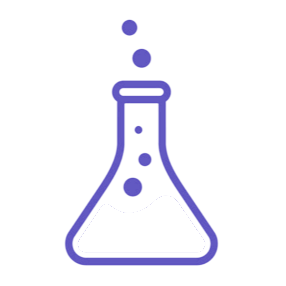
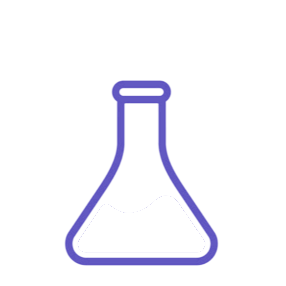
Smooth the beaker sway and animate its bubbles rising and popping
The sway used 4 ease-in-out keyframes, which decelerates at every
keyframe including the center crossings where a pendulum should be
fastest, producing a staggered swing. Replaced with a 21-point
sine-sampled curve run with linear timing. Also extracted the 5
bubble dots baked into the static artwork, erased them from
beaker-glass.png, and animate 5 staggered instances rising through
those same spots and popping at the top.

diff --git a/app/globals.css b/app/globals.css
@@ -195,15 +195,38 @@
   animation: dot-bounce 1.2s infinite ease-in-out both;
 }
 
+/* A pendulum's true speed profile is fastest through center and slowest at the extremes. That
+   curve is baked into the keyframe spacing itself (21 points sampled off a sine wave), so the
+   animation runs with `linear` timing — layering ease-in-out on top would re-slow it at every
+   keyframe, including the center crossings where it should be fastest, producing a staggered,
+   stepped swing instead of one continuous motion. */
 @keyframes beaker-tilt {
-  0%, 50%, 100% { transform: rotate(0deg); }
+  0% { transform: rotate(0deg); }
+  5% { transform: rotate(-4.02deg); }
+  10% { transform: rotate(-7.64deg); }
+  15% { transform: rotate(-10.52deg); }
+  20% { transform: rotate(-12.36deg); }
   25% { transform: rotate(-13deg); }
+  30% { transform: rotate(-12.36deg); }
+  35% { transform: rotate(-10.52deg); }
+  40% { transform: rotate(-7.64deg); }
+  45% { transform: rotate(-4.02deg); }
+  50% { transform: rotate(0deg); }
+  55% { transform: rotate(4.02deg); }
+  60% { transform: rotate(7.64deg); }
+  65% { transform: rotate(10.52deg); }
+  70% { transform: rotate(12.36deg); }
   75% { transform: rotate(13deg); }
+  80% { transform: rotate(12.36deg); }
+  85% { transform: rotate(10.52deg); }
+  90% { transform: rotate(7.64deg); }
+  95% { transform: rotate(4.02deg); }
+  100% { transform: rotate(0deg); }
 }
 
 .beaker-tilt-group {
   transform-origin: 50% 92%;
-  animation: beaker-tilt 1.7s ease-in-out infinite;
+  animation: beaker-tilt 1.7s linear infinite;
 }
 
 /* Same rotation values as beaker-tilt, at the same transform-origin, so the liquid tilts as one
@@ -211,16 +234,63 @@
    movement is scaleY dipping below 1, which only ever shrinks the liquid toward this same bottom
    anchor (never grows past its resting size), so it can't extend past the artwork's own bounds. */
 @keyframes beaker-liquid-pulse {
-  0%, 100% { transform: rotate(0deg) scaleY(1); }
+  0% { transform: rotate(0deg) scaleY(1); }
+  5% { transform: rotate(-4.02deg) scaleY(0.9753); }
+  10% { transform: rotate(-7.64deg) scaleY(0.953); }
+  15% { transform: rotate(-10.52deg) scaleY(0.9353); }
+  20% { transform: rotate(-12.36deg) scaleY(0.9239); }
   25% { transform: rotate(-13deg) scaleY(0.92); }
+  30% { transform: rotate(-12.36deg) scaleY(0.9239); }
+  35% { transform: rotate(-10.52deg) scaleY(0.9353); }
+  40% { transform: rotate(-7.64deg) scaleY(0.953); }
+  45% { transform: rotate(-4.02deg) scaleY(0.9753); }
   50% { transform: rotate(0deg) scaleY(1); }
+  55% { transform: rotate(4.02deg) scaleY(0.9753); }
+  60% { transform: rotate(7.64deg) scaleY(0.953); }
+  65% { transform: rotate(10.52deg) scaleY(0.9353); }
+  70% { transform: rotate(12.36deg) scaleY(0.9239); }
   75% { transform: rotate(13deg) scaleY(0.92); }
+  80% { transform: rotate(12.36deg) scaleY(0.9239); }
+  85% { transform: rotate(10.52deg) scaleY(0.9353); }
+  90% { transform: rotate(7.64deg) scaleY(0.953); }
+  95% { transform: rotate(4.02deg) scaleY(0.9753); }
   100% { transform: rotate(0deg) scaleY(1); }
 }
 
 .beaker-liquid-pulse {
   transform-origin: 50% 92%;
-  animation: beaker-liquid-pulse 1.7s ease-in-out infinite;
+  animation: beaker-liquid-pulse 1.7s linear infinite;
+}
+
+/* Chain of 5 bubbles rising through the flask, retracing the exact spots the static artwork used
+   to draw its bubble dots (now erased from beaker-glass.png so they can move). Every stop's
+   left/top/width/height matches one of those original dots, so the animated bubbles sit exactly
+   where the hand-drawn ones used to. Five instances of the same keyframe, staggered a fifth of
+   the cycle apart, keep all five spots occupied at once — a continuous conveyor rather than one
+   bubble hopping between positions. The top stop fades out at zero size (pops) while, thanks to
+   the stagger, another instance is simultaneously fading in from nothing at the bottom stop. */
+@keyframes beaker-bubble-rise {
+  0% { left: 46.33%; top: 65.21%; width: 0%; height: 0%; opacity: 0; }
+  6% { left: 46.33%; top: 65.21%; width: 6.64%; height: 6.64%; opacity: 0.85; }
+  22% { left: 50.52%; top: 55.77%; width: 4.55%; height: 4.55%; opacity: 0.85; }
+  40% { left: 48.25%; top: 45.28%; width: 2.62%; height: 2.62%; opacity: 0.85; }
+  60% { left: 49.48%; top: 20.1%; width: 6.64%; height: 6.64%; opacity: 0.85; }
+  80% { left: 45.1%; top: 9.44%; width: 5.59%; height: 5.59%; opacity: 0.85; }
+  92% { left: 44%; top: 3%; width: 7.3%; height: 7.3%; opacity: 0.45; }
+  100% { left: 44%; top: 0%; width: 1%; height: 1%; opacity: 0; }
+}
+
+.beaker-bubbles {
+  transform-origin: 50% 92%;
+  animation: beaker-tilt 1.7s linear infinite;
+}
+
+.beaker-bubble {
+  position: absolute;
+  border-radius: 9999px;
+  background: rgba(58, 46, 178, 0.82);
+  transform: translate(-50%, -50%);
+  animation: beaker-bubble-rise 4s ease-in-out infinite;
 }
 
 @keyframes beam-travel {

diff --git a/components/chat-message.tsx b/components/chat-message.tsx
@@ -124,6 +124,17 @@ export function TypingIndicator() {
         <img src="/brand/beaker-glass.png" alt="" className="beaker-tilt-group absolute inset-0 h-9 w-9 object-contain" />
         {/* eslint-disable-next-line @next/next/no-img-element */}
         <img src="/brand/beaker-liquid.png" alt="" className="beaker-liquid-pulse absolute inset-0 h-9 w-9 object-contain" />
+        {/* Retraces the exact spots beaker-glass.png used to draw its static bubble dots (now
+           erased so they can move): 5 staggered instances of one keyframe rise through those
+           same 5 points, so the top one fades out at the top just as another fades in at the
+           bottom — a continuous chain rather than a single dot hopping around. */}
+        <div className="beaker-bubbles absolute inset-0 h-9 w-9">
+          <span className="beaker-bubble" style={{ animationDelay: "0s" }} />
+          <span className="beaker-bubble" style={{ animationDelay: "-0.8s" }} />
+          <span className="beaker-bubble" style={{ animationDelay: "-1.6s" }} />
+          <span className="beaker-bubble" style={{ animationDelay: "-2.4s" }} />
+          <span className="beaker-bubble" style={{ animationDelay: "-3.2s" }} />
+        </div>
       </div>
       <div className="flex items-center gap-2">
         <div className="h-4 w-4 animate-spin rounded-full border-2 border-primary/20 border-t-primary" />
